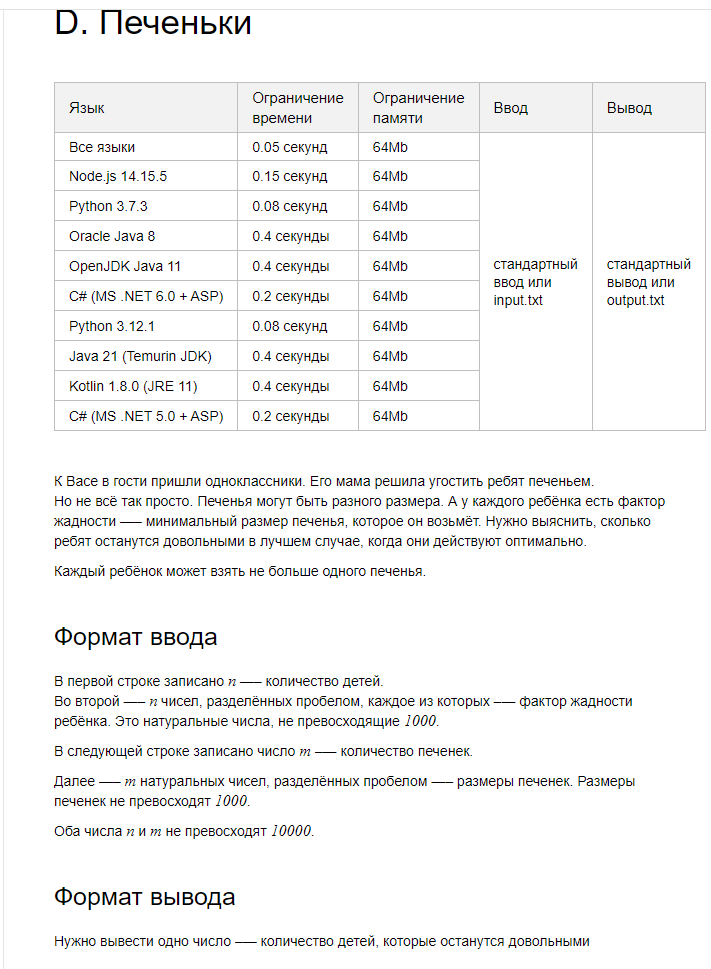
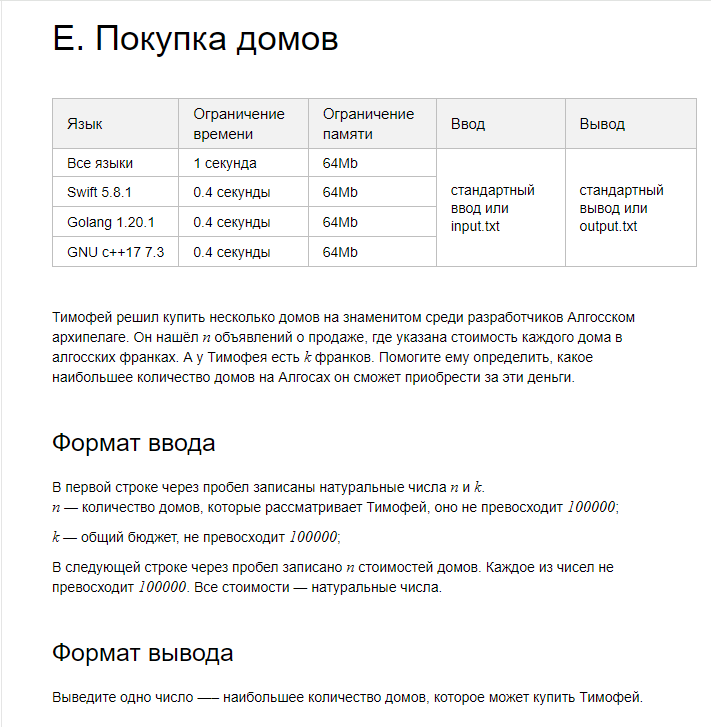
solved

diff --git a/main/34-triangle-perimeter/test.py b/main/34-triangle-perimeter/test.py
@@ -1,0 +1,35 @@
+import task
+import unittest
+
+from utils import testUtil
+
+
+class TestCase(unittest.TestCase):
+    def test_case1(self):
+        value = testUtil.file_test(
+            """4
+6 3 3 2""",
+            task.main,
+        )
+        self.assertEqual(
+            value,
+            """8
+""",
+        )
+
+    def test_case2(self):
+        value = testUtil.file_test(
+            """6
+5 3 7 2 8 3
+""",
+            task.main,
+        )
+        self.assertEqual(
+            value,
+            """20
+""",
+        )
+
+
+if __name__ == "__main__":
+    unittest.main()

diff --git a/main/34-triangle-perimeter/task.py b/main/34-triangle-perimeter/task.py
@@ -1,0 +1,17 @@
+def solve(lines):
+    sorted_lines = sorted(lines, reverse=True)
+    for i in range(2, len(sorted_lines)):
+        if sorted_lines[i - 2] < sorted_lines[i - 1] + sorted_lines[i]:
+            return sorted_lines[i - 2] + sorted_lines[i - 1] + sorted_lines[i]
+    return -1
+
+
+def main():
+    with open("input.txt", "r") as inp, open("output.txt", "w") as outp:
+        n = int(inp.readline())
+        lines = list(map(int, inp.readline().strip().split()))
+        print(solve(lines), file=outp)
+
+
+if __name__ == "__main__":
+    main()
